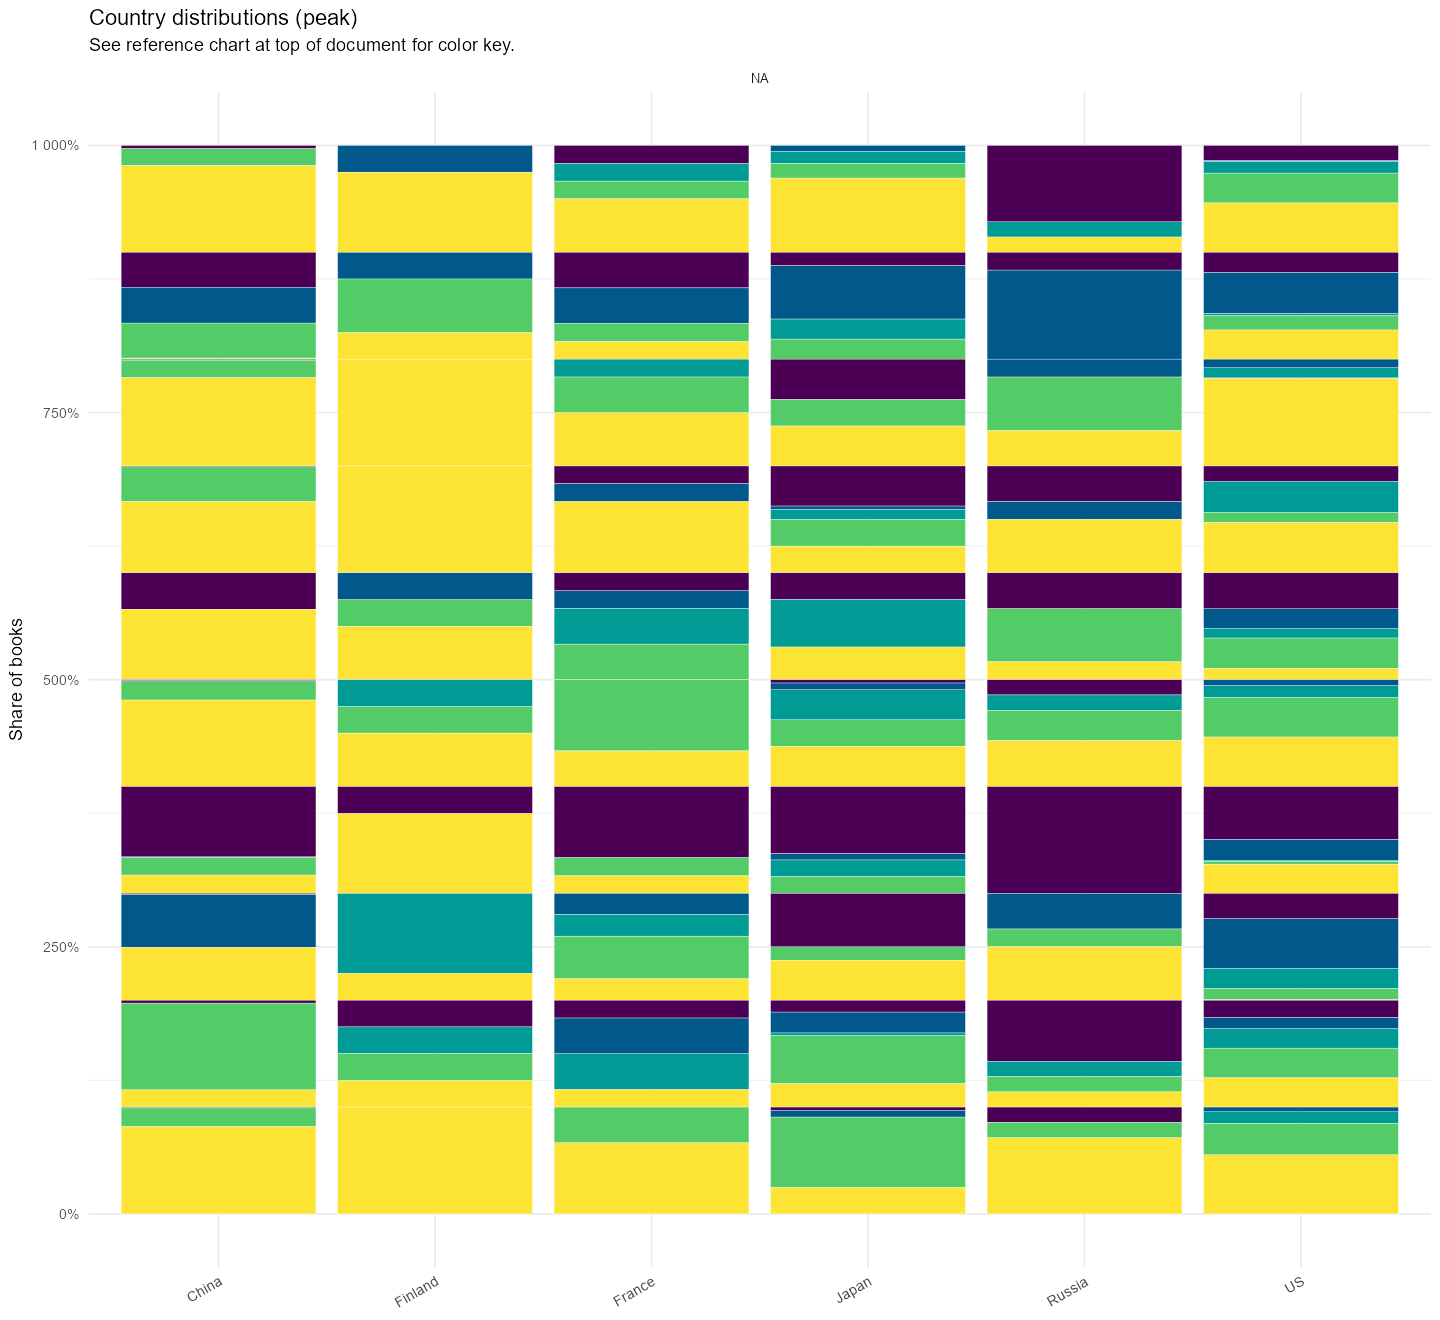
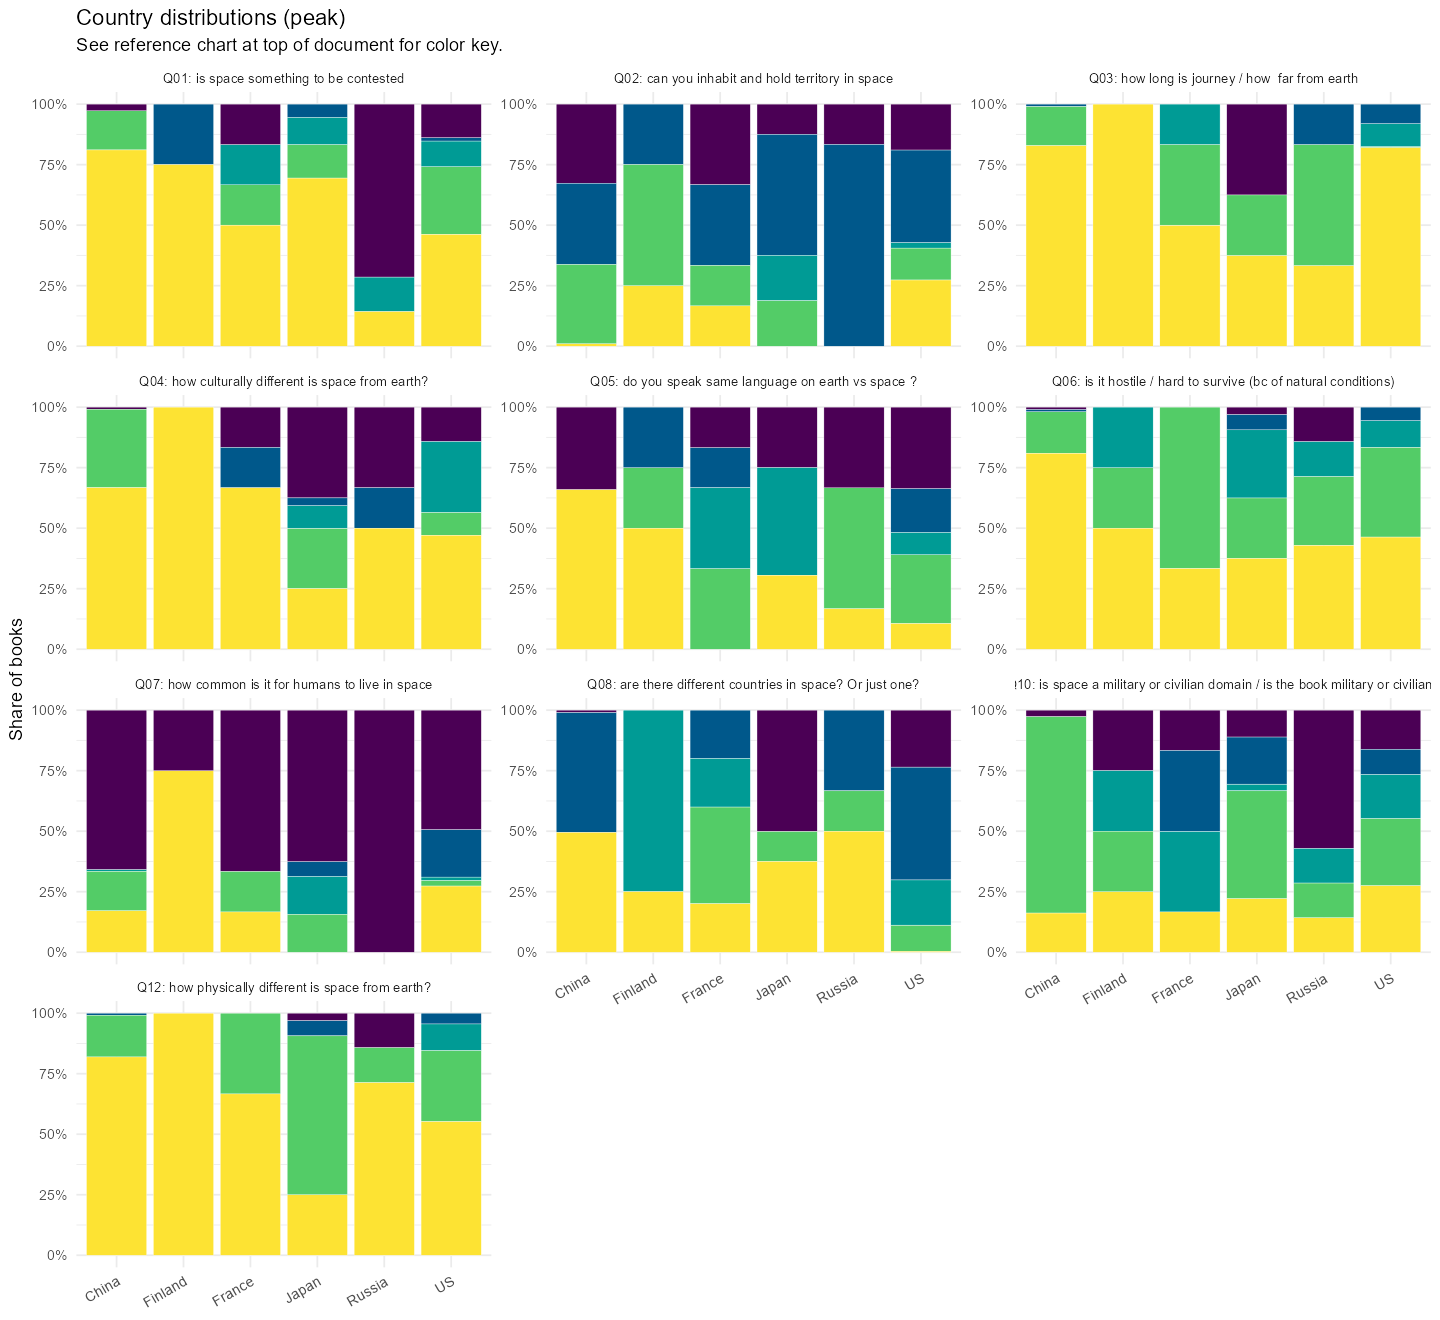
Country Distributions fix and run

diff --git a/data/processed/analysis_report.md b/data/processed/analysis_report.md
@@ -1,6 +1,6 @@
 # Analysis Report
 
-_Generated: 2026-05-27 11:45:23_
+_Generated: 2026-05-27 11:51:41_
 
 ## Configuration
 
